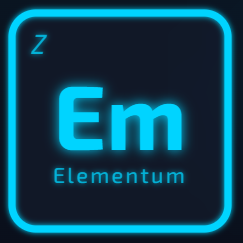
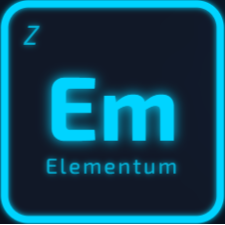
Update README content and refresh OG image
Rewrite README to improve clarity and structure: adds a direct link to the deployed site, a clear description of Elementum, detailed sections for visualization layers (structural and property layers), panel-of-detail behavior, data sources and quality badges, and compatibility notes. Removed low-level file-structure and inline code examples in favor of concise tables and explanations; updated credits formatting. Also replaces the Open Graph image (assets/og-image.png).

diff --git a/README.md b/README.md
@@ -1,114 +1,86 @@
 # Elementum — Tabla Periódica Interactiva
 
-Herramienta de estudio visual para Química General (QUIC0001, UTEM).  
-Elementum está desplegado y disponible en: juangrunge.github.io/elementum
+**Herramienta de estudio visual para Química General**  
+
+🔗 **[Abrir Elementum](https://juangrunge.github.io/elementum/)**
 
 ---
 
-## Propósito
+## ¿Qué es Elementum?
 
-Funciona como hoja de referencia interactiva que cubre:
+Elementum es una tabla periódica interactiva que permite explorar los 118 elementos químicos a través de distintas capas de visualización. Cada capa colorea la tabla según una propiedad diferente, permitiendo identificar patrones y tendencias periódicas de forma visual e inmediata.
 
-- Configuración electrónica y modelos atómicos
-- Propiedades periódicas (electronegatividad, radio, energía de ionización, afinidad electrónica)
-- Números cuánticos del último electrón
-- Tipos de enlace químico
-- Bloques s / p / d / f y familias de grupos
+Está pensada para estudiantes y docentes de química que necesiten una referencia rápida, visual y confiable — tanto en computador como en dispositivos móviles.
 
 ---
 
-## Estructura de archivos
+## Capas de visualización
 
-```
-elementum/
-├── index.html          Punto de entrada — carga fuentes, estilos y scripts
-├── css/
-│   ├── base.css        Variables CSS, header, layer-bar, footer, scrollbar
-│   ├── table.css       Grid de la tabla, celdas, panel lateral, leyenda
-│   └── layers.css      Clases de color por categoría y animaciones
-└── js/
-    ├── data.js         Array ELEMENTS con los 118 elementos
-    ├── render.js       Construye el grid CSS y las filas f-block
-    ├── layers.js       Lógica de capas de color y barra de botones
-    └── tooltip.js      Panel de detalle con números cuánticos y propiedades
-```
+Cada botón en la barra superior activa una forma distinta de ver la tabla.
 
----
+### Capas estructurales
 
-## Cómo editar datos de un elemento
-
-Abre `js/data.js`. Cada elemento es un objeto JS. Busca por símbolo o Z:
-
-```js
-{ z: 6, symbol: "C", name: "Carbono", mass: 12.011, period: 2, group: 14,
-  block: "p", category: "no-metal", electronegativity: 2.55,
-  atomicRadius: 67, ionizationEnergy: 1086, electronAffinity: 121.8,
-  electronConfig: "1s² 2s² 2p²", valenceElectrons: 4,
-  typicalBond: "covalente" }
-```
-
-Campos editables:
-
-| Campo | Tipo | Notas |
-|---|---|---|
-| `mass` | number | Usa decimales; entero → se muestra entre paréntesis (sintético) |
-| `electronegativity` | number\|null | Escala de Pauling |
-| `atomicRadius` | number\|null | en picómetros |
-| `ionizationEnergy` | number\|null | en kJ/mol |
-| `electronAffinity` | number\|null | en kJ/mol |
-| `electronConfig` | string | Usa caracteres Unicode superíndice (⁰¹²³…) |
-| `typicalBond` | string | Uno de: `"iónico"`, `"covalente"`, `"covalente polar"`, `"metálico"`, `"ninguno"` |
-
----
-
-## Cómo agregar una nueva capa de color
-
-1. **Define la función `apply`** en `js/layers.js`:
-
-```js
-function applyMiCapa(cells) {
-  cells.forEach(cell => {
-    const el = getElement(cell);
-    if (!el) return;
-    cell.style.backgroundColor = miColorParaEl(el);
-  });
-}
-```
-
-2. **Define la función `legend`** que retorna HTML de `<div class="legend-item">…</div>`.
-
-3. **Agrega la entrada** al array `LAYERS` dentro de `layers.js`:
-
-```js
-{
-  id: "mi-capa",
-  label: "Mi Capa",
-  type: "gradient",
-  legend: miLeyenda,
-  apply: applyMiCapa,
-}
-```
-
-La barra de botones se genera automáticamente a partir del array.
-
----
-
-## Capas disponibles
-
-| Capa | Descripción |
+| Capa | Qué muestra |
 |---|---|
-| Categorías | Color por tipo de elemento (metal alcalino, gas noble, etc.) |
-| Clasificación | Metal / Metaloide / No metal |
-| Bloques | Bloque s, p, d, f |
-| Familias | Color por número de grupo (1–18) |
-| Electronegatividad | Gradiente frío→cálido según escala Pauling |
-| Radio Atómico | Gradiente por tamaño en pm |
-| Energía de Ionización | Gradiente verde→rojo en kJ/mol |
-| Tipo de Enlace | Iónico / Covalente / Metálico / Polar |
+| **Categorías** | Clasificación por tipo: metales alcalinos, gases nobles, halógenos, etc. |
+| **Clasificación** | Agrupación en tres grandes familias: metales, metaloides y no metales |
+| **Bloques** | Bloque s, p, d o f según el último orbital que se llena |
+| **Familias** | Grupos del 1 al 18, con igual número de electrones de valencia |
+| **Períodos** | Filas del 1 al 7, con igual número de capas electrónicas |
+
+### Capas de propiedades periódicas
+
+Estas capas usan un gradiente de color: los tonos más claros o intensos indican valores más altos.
+
+| Capa | Qué muestra | Unidad |
+|---|---|---|
+| **Radio Atómico** | Distancia del núcleo al electrón más externo | pm |
+| **Volumen Atómico** | Cociente entre masa molar y densidad | cm³/mol |
+| **Energía de Ionización** | Energía para arrancar un electrón de valencia | kJ/mol |
+| **Electroafinidad** | Energía liberada o absorbida al captar un electrón | kJ/mol |
+| **Electronegatividad** | Capacidad de atraer electrones en un enlace (escala Pauling) | — |
+| **Tipo de Enlace** | Enlace típico del elemento: iónico, covalente, metálico o polar | — |
+
+### Panel de detalle
+
+Al hacer clic sobre cualquier elemento se abre un panel lateral con:
+
+- Número atómico, masa y configuración electrónica
+- Números cuánticos del último electrón (n, l, m, s)
+- Propiedades periódicas con sus valores y unidades
+- Tipo de enlace con explicación de la regla ΔEN
+
+---
+
+## Sobre los datos
+
+Los valores provienen de fuentes de referencia estándar en química:
+
+- **NIST WebBook** — base de datos oficial del Instituto Nacional de Estándares de EE.UU.
+- **CRC Handbook of Chemistry and Physics** — referencia estándar en química aplicada
+- **Fricke & Waber (1971)** — estimaciones teóricas para elementos transuránidos
+
+### Calidad de los datos
+
+Algunos elementos, especialmente actínidos y elementos sintéticos, tienen datos que no han podido ser medidos directamente en laboratorio. Para estos casos, el panel de detalle muestra un badge junto al valor:
+
+| Badge | Significado |
+|---|---|
+| `experimental` | Valor medido directamente en laboratorio |
+| `estimado` | Valor derivado de modelos teóricos o interpolación |
+
+Los elementos Z=104–118 (superpesados sintéticos) no tienen datos de volumen atómico ni electroafinidad — esto es correcto e intencional, ya que no existen mediciones válidas para ellos.
+
+---
+
+## Compatibilidad
+
+Elementum funciona directamente en el navegador, sin instalación. Compatible con Chrome, Firefox, Safari y Edge en versiones modernas. Optimizado para uso en escritorio y móvil.
 
 ---
 
 ## Créditos
 
-**Juan Cruz Muñoz** — UTEM 2026  
-Desarrollado como herramienta de apoyo para QUIC0001 Química General.
+Desarrollado por **Juan Cruz Muñoz**  
+Ingeniería Civil en Ciencia de Datos · UTEM 2026  
+Como herramienta de apoyo para QUIC0001 Química General
